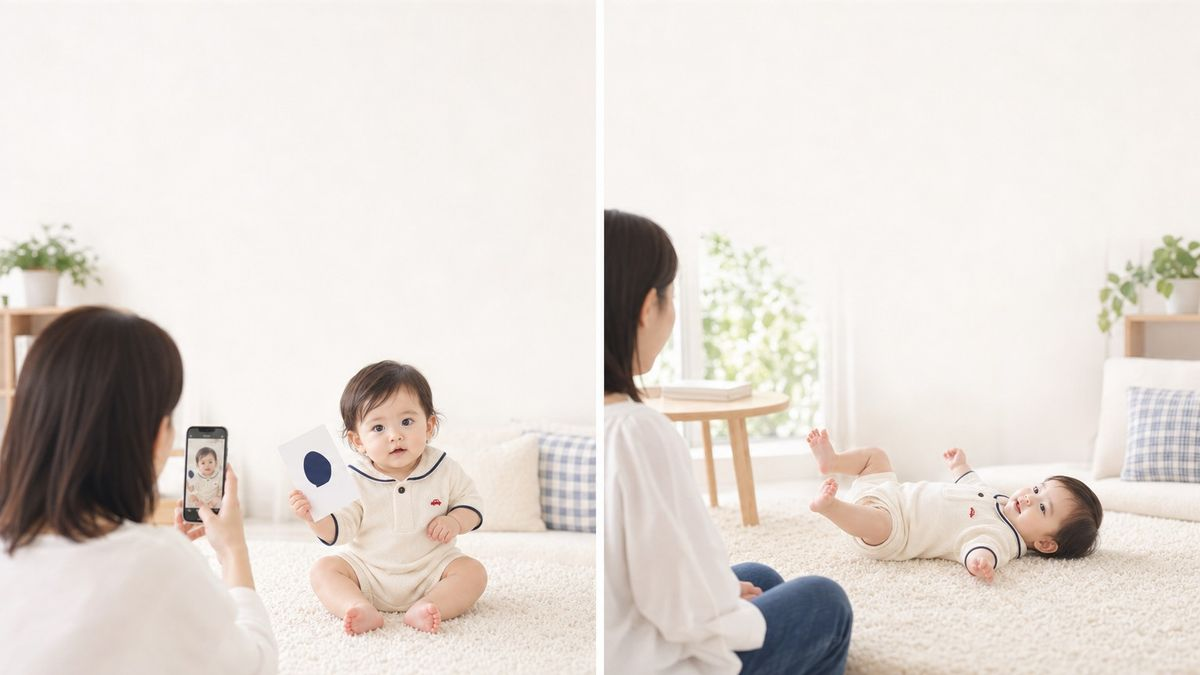
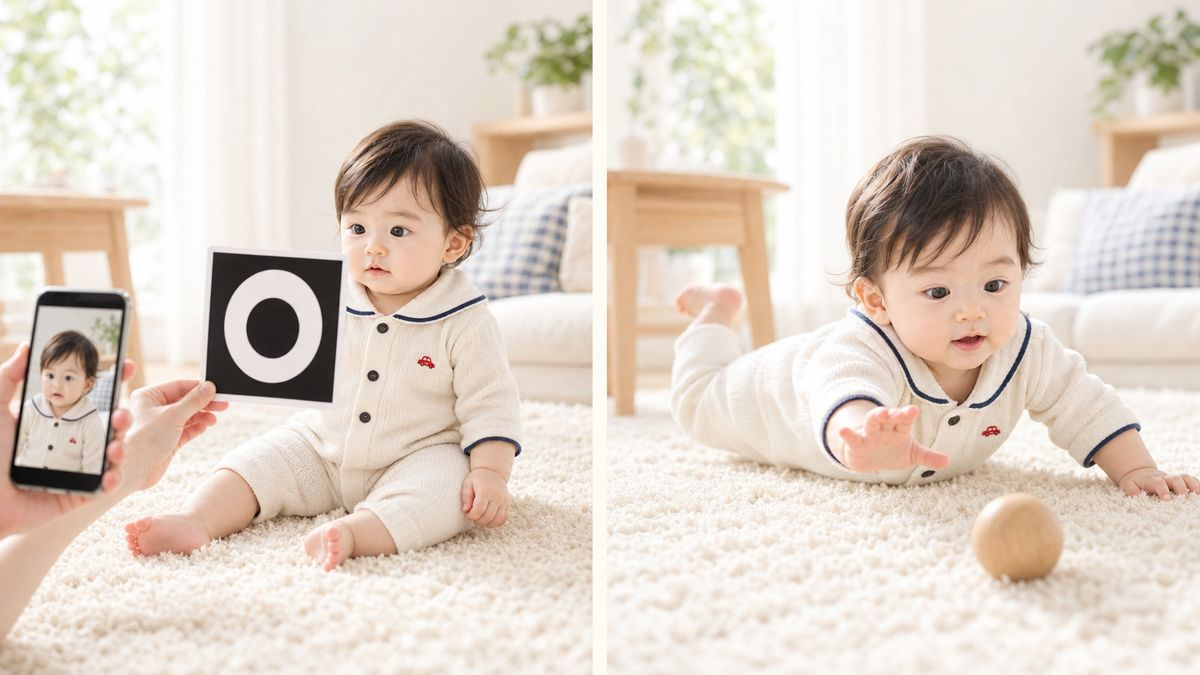
[lp] ピグマリオン ベビー 動画登録LP：外部の方の名前を外す・映える遊びの絵を差し替え・声の年齢を修了時の表記に

diff --git a/pygmalion-emiko-baby-video-optin-20261105/lp/index.html b/pygmalion-emiko-baby-video-optin-20261105/lp/index.html
@@ -158,7 +158,7 @@ footer{width:100%;max-width:560px;background:#1b2a4a;color:#b8c0d0;text-align:ce
     <p>教育のためのストロー練習。生まれて早いうちから、抱っこ紐の中で長く過ごすこと。腰がすわる前に、ベビーチェアやママの膝の上に座らせること。寝てくれるから、喜ぶからと、バウンサーに乗せること。</p>
     <p>どれも、愛情があって、よく調べているママほどやっていることです。でも、赤ちゃんの体から見ると、<strong>自分で通るはずだった道を、大人が先回りして通り過ぎてしまっている</strong>ことがあるんです。</p>
     <figure class="illust"><picture><source srcset="images/illust_carrier_cycle.webp" type="image/webp"><img src="images/illust_carrier_cycle.jpg" alt="抱っこ紐で長く過ごすと、ママの顔を見ようと体をねじる。うつ伏せで手足が床から浮く。前に行きたいのに進めない。泣いて、ママも疲れる、という悪循環のイラスト" width="1200" height="675" loading="lazy" decoding="async"></picture><figcaption>抱っこ紐で長く過ごすと起きやすい悪循環（早惠子先生が見てきた親子の様子から）</figcaption></figure>
-    <p>たとえば、矯正歯科の宮島先生は「6歳までは、ストローを使わないでほしい」と話しています。ストローで吸うと、ほっぺたが顎を内側に押し、<strong>外へ広がるはずの顎に逆向きの力がかかる</strong>からです。</p>
+    <p>たとえば、ストロー。ストローで吸うと、ほっぺたが顎を内側に押し、<strong>外へ広がるはずの顎に、逆向きの力がかかります</strong>。舌も下がったままになり、しっかり動かす経験が少なくなってしまいます。</p>
     <p>抱っこ紐やバウンサーなどの道具は、使ってはいけない、という話ではありません。大事なのは、使い方と時間です。くわしくは、動画でお話しします。</p>
   </div>
 </section>
@@ -168,10 +168,9 @@ footer{width:100%;max-width:560px;background:#1b2a4a;color:#b8c0d0;text-align:ce
   <div class="container edu">
     <h2 class="section-title">脳は、3階建て。<br><span class="navy">土台は0〜2歳につくられます</span></h2>
     <figure class="illust"><picture><source srcset="images/illust_brain_house.webp" type="image/webp"><img src="images/illust_brain_house.jpg" alt="3階建ての家のイラスト。1階で赤ちゃんがはいはいし、2階には本とパズル、3階では親子が手をつないでいる。1階がからだの脳、2階がおりこうさんの脳、3階がこころの脳" width="1200" height="675" loading="lazy" decoding="async"></picture></figure>
-    <p>医師で脳の研究者の成田奈緒子先生は、脳の育ちを3階建ての家にたとえています。1階は体と感覚を使う「からだの脳」、2階は考える・覚える「おりこうさんの脳」、3階は「こころの脳」。<strong>下から順番に積み上がり、1階が小さいまま2階に詰め込むと、家は崩れてしまいます。</strong></p>
+    <p>脳の育ちは、3階建ての家にたとえられます。1階は体と感覚を使う「からだの脳」、2階は考える・覚える「おりこうさんの脳」、3階は「こころの脳」。<strong>下から順番に積み上がり、1階が小さいまま2階に詰め込むと、家は崩れてしまいます。</strong>くわしくは、動画でお話しします。</p>
     <p>そして、私たちが親子の現場で見てきて、いちばん大切にしているのが、この体の1階をつくる<strong>0〜2歳</strong>です。この時期に土台を大きくしておくと、その上に2階の脳がすっと乗って、正しく伸びていく。3歳からでもできることはありますが、土台ができている子は、その分だけ有利です。</p>
     <p class="closing-line">0〜2歳は、あっという間に過ぎていきます。</p>
-    <p class="source text-center" style="margin-top:12px">出典：成田奈緒子『高学歴親という病』（講談社＋α新書）の考え方をもとに作図</p>
   </div>
 </section>
 
@@ -179,10 +178,10 @@ footer{width:100%;max-width:560px;background:#1b2a4a;color:#b8c0d0;text-align:ce
 <section class="bg-light">
   <div class="container edu">
     <h2 class="section-title">映える育脳では、<br><span class="navy">本当に目指したいところに</span><br><span class="navy">届かない</span></h2>
-    <figure class="illust"><picture><source srcset="images/illust_haeru_sodatsu.webp" type="image/webp"><img src="images/illust_haeru_sodatsu.jpg" alt="左はスマホで撮影されるカード遊び、右は床の上で手足を自由に動かす地味な遊び。映える育脳と育つ遊びの対比" width="1200" height="675" loading="lazy" decoding="async"></picture></figure>
+    <figure class="illust"><picture><source srcset="images/illust_haeru_sodatsu.webp" type="image/webp"><img src="images/illust_haeru_sodatsu.jpg" alt="左はスマホで撮影されながらカードをじっと見ている赤ちゃん、右は床の上で自分から木のボールに手を伸ばす赤ちゃん。映える育脳と育つ遊びの対比" width="1200" height="675" loading="lazy" decoding="async"></picture><figcaption>左：映える育脳　右：育つ遊び</figcaption></figure>
     <p>カードを見せると、じっと見つめる。音の出るおもちゃで、ぱっと笑う。SNSで見る育脳遊びは、反応が大きくて、すごく育っているように見えます。</p>
     <p>でも、ママが本当に目指したいのは、<strong>地頭が良くて、体もよく動いて、心も強い子</strong>のはず。そこを目指すなら、地味でも、着実に成長を促す遊びのほうがいいんです。</p>
-    <div class="quote">「娘もだいこん一本が大好きで、今は自分で色んな野菜になってくれます」<small>講座を修了した、2歳のお子さんのママ</small></div>
+    <div class="quote">「娘もだいこん一本が大好きで、今は自分で色んな野菜になってくれます」<small>講座を修了したママ（お子さん修了時 2歳9か月）</small></div>
   </div>
 </section>
 
@@ -245,31 +244,31 @@ footer{width:100%;max-width:560px;background:#1b2a4a;color:#b8c0d0;text-align:ce
 
     <div class="voice-card">
       <p class="voice-title">子どもと向き合うことが、<br>心から楽しくなりました</p>
-      <p class="voice-name">5歳・1歳のお子さんのママ</p>
+      <p class="voice-name">お子さん修了時 5歳・1歳のママ</p>
       <p>上の子はタブレット中心の生活から、おもちゃで遊ぶこと、体を動かすこと中心の生活に。パパも<strong>「そういうことか！」とつながって、自分から関わるようになりました。</strong></p>
     </div>
 
     <div class="voice-card">
       <p class="voice-title">子育ての迷いが、<br>格段に減りました</p>
-      <p class="voice-name">2歳のお子さんのママ</p>
+      <p class="voice-name">お子さん修了時 2歳4か月のママ</p>
       <p>知識が伴うことで、子どもへ向ける注意の仕方が変わりました。主人に共有したら、子どもが散らかしていても、発達に必要なら一緒に楽しめるように。<strong>苦痛を感じる時間が、楽しい時間に変わりました。</strong></p>
     </div>
 
     <div class="voice-card">
       <p class="voice-title">検索して不安になる時間が、<br>なくなりました</p>
-      <p class="voice-name">3歳のお子さんのママ</p>
+      <p class="voice-name">お子さん修了時 3歳のママ</p>
       <p>困りごとをすぐに相談できることで、<strong>1人目よりも自分自身に余裕を感じられました。</strong>子どものやることがただのイタズラではなく、全てに意味のある行動だと分かりました。</p>
     </div>
 
     <div class="voice-card">
       <p class="voice-title">下の子のためだけでなく、<br>上の子にも役に立つことばかり</p>
-      <p class="voice-name">1歳のお子さんのママ</p>
+      <p class="voice-name">お子さん修了時 1歳1か月のママ</p>
       <p>上の子の「お口ポカン」に悩んで受講しました。<strong>上の子に「やめなさい！」と言うことが減り、何の刺激が足りていないのかな、と考えられるようになりました。</strong>理論的な説明なので、主人に伝えるとすぐに納得して実践してくれました。</p>
     </div>
 
     <div class="voice-card">
       <p class="voice-title">3か月はかかると言われていたのが、<br>3日目には効果が出てきました</p>
-      <p class="voice-name">5歳・2歳のお子さんのママ</p>
+      <p class="voice-name">お子さん修了時 5歳10か月・2歳2か月のママ</p>
       <p>朝起きて私が横にいないと泣き、思うようにいかないと泣く。それを一日中くり返す5歳の娘に悩んでいました。娘は反りが強く、首すわり前に寝返りをしていて、<strong>いつも緊張状態にあったのだと納得できました。</strong>個別面談で教わった関わり方で、泣く回数が減り、待てるように。「娘も、しんどかっただろうなと思います」。</p>
     </div>
 
